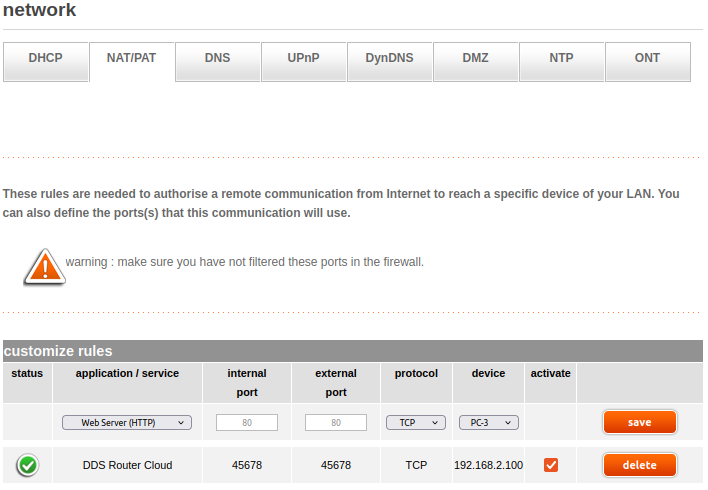
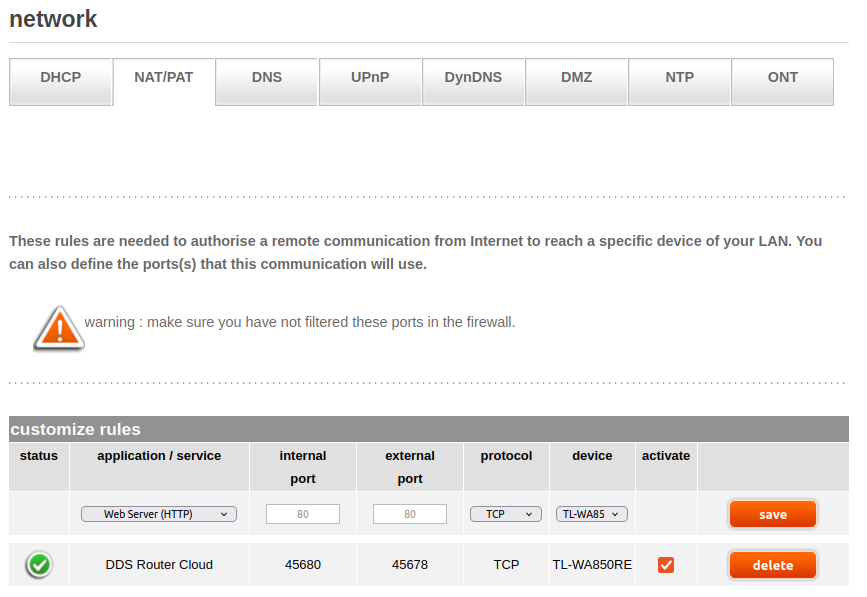
Add external port documentation

diff --git a/docs/rst/user_manual/wan_configuration.rst b/docs/rst/user_manual/wan_configuration.rst
@@ -19,22 +19,20 @@ Thus, NAT traversal methods will be required.
 The most common method that we recommend is configuring the network router so it forwards a specific port from
 the internet to a specific host.
 
+.. note::
+
+    NAT Traversal communication only affects to IPv4 communication.
+    Using IPv6 would not create NAT under network routers so every device could be accessed externally.
+    Thus, configurations explained in this section does not apply to IPv6 deployments.
+
+
+.. _user_manual_wan_configuration_nat_traversal_port_forwarding:
 
 Port Forwarding
 ---------------
 
 This is the easiest way to achieve NAT traversal.
 Most network routers support a graphical interface where port forwarding could be easily set.
-
-
-.. note:
-
-    NAT Traversal communication only affects to IPv4 communication.
-    Using IPv6 would not require specific network router configurations (as long as the router supports it).
-
-.. note:
-
-    It is needed to use same public port and internal port due to of Fast DDS configuration requirements.
 
 
 TCP vs UDP
@@ -76,7 +74,7 @@ These are a list of tips to help choosing whether to use one or the other.
 
 
 TLS
----
+===
 
 |eddsrouter| also supports `TLS over TCP <https://fast-dds.docs.eprosima.com/en/latest/fastdds/transport/tcp/tls.html>`_,
 and its configuration can be set per participant for types Local Discovery Server and WAN. Following is a list of the
@@ -129,9 +127,8 @@ Let user *B* with host *H*:sub:`B` has a private IP ``192.168.2.2`` given by net
 with a public IP ``2.2.2.2``.
 *A* will act as server of the TCP communication, while *B* will act as client.
 
-User *A* should set a port forwarding rule in router *R*:sub:`A` as ``11666 -> 192.168.1.2:11666``.
-That is, every datagram that arrives to IP ``1.1.1.1:11666`` will be forwarded to ``192.168.1.2:11666``
-(it is required to use the same public port as the internal one).
+User *A* should set a port forwarding rule in router *R*:sub:`A` as ``11666 -> 192.168.1.2:11667``.
+That is, every datagram that arrives to IP ``1.1.1.1:11666`` will be forwarded to ``192.168.1.2:11667``.
 User *A* should set its *listening-addresses* as follows:
 
 .. code-block:: yaml
@@ -143,7 +140,8 @@ User *A* should set its *listening-addresses* as follows:
         id: 2                             # Id to generate the GuidPrefix of the Discovery Server of A
       listening-addresses:
         - ip: 1.1.1.1                     # Public IP of host Ha
-          port: 11666                     # Port forwarded router Ra
+          port: 11667                     # Physical port used for the dds router host
+          external-port: 11666            # Port forwarded router Ra
           transport: tcp                  # Transport protocol
 
 User *B* should set *connection-addresses* to connect to *H*:sub:`A` as follows:
@@ -180,9 +178,8 @@ with a public IP ``2.2.2.2``.
 It does not matter whether *A* knows *B* address, *B* knows *A*, or both know each other.
 In this example, *B* will know *A* address, and not the other way around.
 
-User *A* should set a port forwarding rule in router *R*:sub:`A` as ``11666 -> 192.168.1.2:11666``.
-That is, every datagram that arrives to IP ``1.1.1.1:11666`` will be forwarded to ``192.168.1.2:11666``
-(it is required to use same public port as the internal one).
+User *A* should set a port forwarding rule in router *R*:sub:`A` as ``11666 -> 192.168.1.2:11667``.
+That is, every datagram that arrives to IP ``1.1.1.1:11666`` will be forwarded to ``192.168.1.2:11667``.
 User *A* should set its *listening-addresses* as follows:
 
 .. code-block:: yaml
@@ -194,11 +191,11 @@ User *A* should set its *listening-addresses* as follows:
         id: 2                             # Id to generate the GuidPrefix of the Discovery Server of A
       listening-addresses:
         - ip: 1.1.1.1                     # Public IP of host Ha
-          port: 11666                     # Port forwarded router Ra
+          port: 11667                     # This device physical port forwarded internally
+          external-port: 11666            # Port forwarded router Ra
 
-User *B* should set a port forwarding rule in router *R*:sub:`B` as ``11777 -> 192.168.2.2:11777``.
-This is, every datagram that arrives to IP ``2.2.2.2:11777`` will be forwarded to ``192.168.2.2:11777``
-(It is necessary to use same public port as the internal one).
+User *B* should set a port forwarding rule in router *R*:sub:`B` as ``11777 -> 192.168.2.2:11778``.
+This is, every datagram that arrives to IP ``2.2.2.2:11777`` will be forwarded to ``192.168.2.2:11778``.
 User *B* should set its *listening-addresses* and *connection-addresses* as follows:
 
 .. code-block:: yaml
@@ -210,7 +207,8 @@ User *B* should set its *listening-addresses* and *connection-addresses* as foll
         id: 3                             # Must be different than A one
       listening-addresses:
         - ip: 2.2.2.2                     # Public IP of host Hb
-          port: 11777                     # Port forwarded router Rb
+          port: 11778                     # This device physical port forwarded internally
+          external-port: 11777            # Port forwarded router Rb
       connection-addresses:
         - discovery-server-guid:
             id: 2                         # Id of the Discovery Server of A

diff --git a/docs/rst/user_manual/configuration.rst b/docs/rst/user_manual/configuration.rst
@@ -310,6 +310,7 @@ An Address is defined by:
 
 * *IP*: IP of the host (public IP in case of WAN communication).
 * *Port*: Port where the Participant is listening.
+* *External Port*: Public port accessible for external entities.
 * *Transport Protocol*: ``UDP`` or ``TCP``.
   If it is not set, it would be chosen by default depending on the Participant Kind.
 * *IP version*: ``v4`` or ``v6``.
@@ -321,6 +322,7 @@ An Address is defined by:
 
     ip: 127.0.0.1
     port: 11666
+    external-port: 11670
     transport: tcp
     ip-version: v4
 
@@ -333,6 +335,16 @@ An Address is defined by:
 
     domain: localhost             # DNS call return value = 127.0.0.1
     port: 33333
+
+
+External Port
+-------------
+
+External port is used to configure a Server (Discovery Server or Initial Peers) that runs under a NAT.
+In case this value is not set, the external port is supposed to be the same as the internal one.
+In this case the external and internal port in the network router port forwarding must coincide.
+For more information, check section :ref:`user_manual_wan_configuration_nat_traversal_port_forwarding`.
+
 
 .. _user_manual_configuration_discovery_server_guidprefix:
 
@@ -409,7 +421,8 @@ listen for remote Participants.
       - ip: 127.0.0.1                # UDP by default
         port: 11667
       - ip: 2001:4860:4860::8844     # Recognized as IPv6
-        port: 11668
+        port: 11666
+        external-port: 11668
         transport: tcp
 
 
@@ -512,7 +525,8 @@ A complete example of all the configurations described on this page can be found
             port: 11600                 # Port = 11600
           - ip: 127.0.0.1               # IP = localhost
             port: 11601                 # Port = 11601
-            transport: udp              # Transport = UDP
+            external-port: 11602        # External Port = 11602
+            transport: tcp              # Transport = TCP
 
     ####################
 
@@ -532,4 +546,4 @@ A complete example of all the configurations described on this page can be found
             addresses:
               - ip: 8.8.8.8             # IP = 8.8.8.8
                 port: 11666             # Port = 11666
-                transport: tcp          # Transport = TCP
+                transport: udp          # Transport = UDP

diff --git a/docs/rst/notes/forthcoming_version.rst b/docs/rst/notes/forthcoming_version.rst
@@ -13,8 +13,11 @@ Next release will include the following **features**:
 * Add RPC support (compatibility with *ROS 2* services).
 * Timeout argument ``--timeout`` to close the application after the time set has passed.
   Check section :ref:`user_manual_user_interface_timeout_argument` for more information.
+* Add TLS-SNI support.
+* Add TLS-SNI support.
+* Add **external port** support so internal and external port in router configuration could be different.
 
-Next release will include the following **Fast DDS features**:
+Next release will include the following **DDS features**:
 
 * New :term:`Initial Peers` Participant that allows to create a fast WAN communication
   avoiding the Discovery Server configuration.
@@ -24,6 +27,7 @@ Next release will include the following **configuration changes**:
 
 * New Configuration Version ``v3.0`` that allow Repeater and initial peers configuration.
 * Yaml Validator only validates ``v3.0`` configurations.
+* Address support an :code:`external-port` value to set this in a listening address.
 
 Next release will include the following **major changes**:
 

diff --git a/docs/rst/use_cases/wan_tcp.rst b/docs/rst/use_cases/wan_tcp.rst
@@ -204,11 +204,6 @@ This configuration will depend on your network router, but it should be similar 
 .. figure:: /rst/figures/use_cases/router_settings.png
    :align: center
 
-.. warning::
-
-    Due to a current limitation of DDS Router, the external port and internal port must match.
-    Stay tuned for new versions of DDS Router that are intended to address this limitation.
-
 Configure the DDS Router Net B
 ''''''''''''''''''''''''''''''
 
